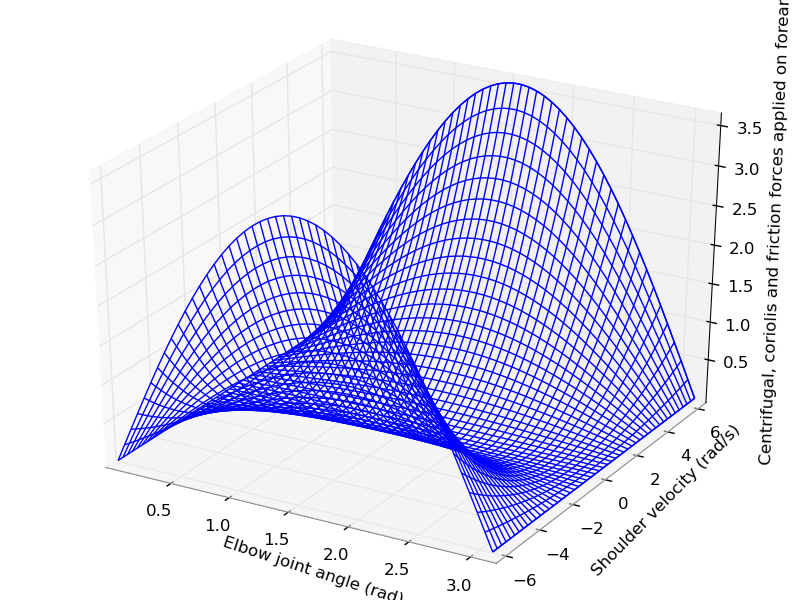
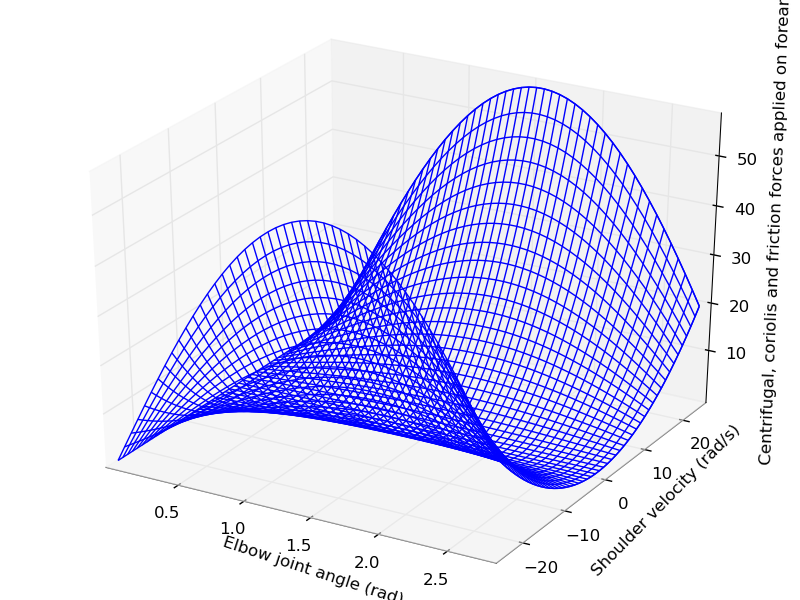
Update documentation.

diff --git a/doc/article.tex b/doc/article.tex
@@ -234,15 +234,16 @@ Kambara~:
     $\ms{A} \in \mathbb{R}^{6 \times 2}$      & = & Matrice des bras de levier $(m)$ \\
     $\vs{T}(\vs{l_m}, \vs{\dot{l_m}}, \vs{\tilde{u}}) \in \mathbb{R}^6$  & = & Tension exercée par les muscles $(N)$ \\
     \\
-    $\vs{k}(\vs{\tilde{u}}) \cdot (\vs{l_r}(\vs{\tilde{u}}) - \vs{l_m})$ & = & Force élastique des muscles (raideur $\cdot$ étirement) \\
+    $\vs{k}(\vs{\tilde{u}}) \cdot (\vs{l_r}(\vs{\tilde{u}}) - \vs{l_m})$ & = & Force élastique des muscles (raideur $\cdot$ étirement) $(N)$ \\
+    $\vs{\nu}(\vs{\tilde{u}}) \cdot \vs{\dot{l_m}}$ & = & Force de viscosité des muscles $(N)$ \\
     \\
 
-    $\vs{k}(\vs{\tilde{u}}) \in \mathbb{R}^6$      & = & Raideur des muscles \\
+    $\vs{k}(\vs{\tilde{u}}) \in \mathbb{R}^6$      & = & Raideur des muscles $(N/m)$ \\
     $\vs{k_0} \in \mathbb{R}^6$               & = & Raideur intrinsèque des muscles $(N/m)$ \\
     $\vs{k_1} \in \mathbb{R}^6$               & = & Coefficient de variation de l'élasticité des muscles $(N/m)$ \\
     \\
 
-    $\vs{\nu}(\vs{\tilde{u}}) \in \mathbb{R}^6$    & = & Viscosité des muscles \\
+    $\vs{\nu}(\vs{\tilde{u}}) \in \mathbb{R}^6$    & = & Viscosité des muscles $(N \cdot s/m)$ \\
     $\vs{\nu_0} \in \mathbb{R}^6$             & = & Viscosité intrinsèque des muscles $(N \cdot s/m)$ \\
     $\vs{\nu_1} \in \mathbb{R}^6$             & = & Coefficient de variation de la viscosité des muscles $(N \cdot s/m)$ \\
     \\
@@ -276,17 +277,17 @@ Mitrovic \cite{katayama1993} (p.356-357)~:
     \hline
                             & $k_0$ & $k_1$  & $\nu_0$ & $\nu_1$ & $l_{r1}$               & $l_{m0} - l_{r0}$ \\
     \hline                                            
-    fléchisseur de l'épaule & 810.8 & 1621.6 & 54.1    & 108.1   & $-3.49 \cdot 10^{-2}$  & $  9.08 \cdot 10^{-2}$ \\
-    \hline
-    extenseur de l'épaule   & 810.8 & 1621.6 & 54.1    & 108.1   & $ 3.49 \cdot 10^{-2}$  & $ -2.79 \cdot 10^{-2}$ \\
-    \hline
-    fléchisseur du coude    & 810.8 & 1621.6 & 54.1    & 108.1   & $-2.18 \cdot 10^{-2}$  & $  5.67 \cdot 10^{-2}$ \\
-    \hline
-    extenseur du coude      & 810.8 & 1621.6 & 54.1    & 108.1   & $ 2.18 \cdot 10^{-2}$  & $  0.44 \cdot 10^{-2}$ \\
-    \hline
-    double fléchisseur      & 810.8 & 1621.6 & 54.1    & 108.1   & $-5.50 \cdot 10^{-2}$  & $ 14.29 \cdot 10^{-2}$ \\
-    \hline
-    double extenseur        & 810.8 & 1621.6 & 54.1    & 108.1   & $ 5.50 \cdot 10^{-2}$  & $ -1.34 \cdot 10^{-2}$ \\
+    fléchisseur de l'épaule & 8.108 & 16.216 & 54.1    & 1.081   & $-3.49 \cdot 10^{-2}$  & $  9.08 \cdot 10^{-2}$ \\
+    \hline                                                 
+    extenseur de l'épaule   & 8.108 & 16.216 & 54.1    & 1.081   & $ 3.49 \cdot 10^{-2}$  & $ -2.79 \cdot 10^{-2}$ \\
+    \hline                                                 
+    fléchisseur du coude    & 8.108 & 16.216 & 54.1    & 1.081   & $-2.18 \cdot 10^{-2}$  & $  5.67 \cdot 10^{-2}$ \\
+    \hline                                                 
+    extenseur du coude      & 8.108 & 16.216 & 54.1    & 1.081   & $ 2.18 \cdot 10^{-2}$  & $  0.44 \cdot 10^{-2}$ \\
+    \hline                                                 
+    double fléchisseur      & 8.108 & 16.216 & 54.1    & 1.081   & $-5.50 \cdot 10^{-2}$  & $ 14.29 \cdot 10^{-2}$ \\
+    \hline                                                 
+    double extenseur        & 8.108 & 16.216 & 54.1    & 1.081   & $ 5.50 \cdot 10^{-2}$  & $ -1.34 \cdot 10^{-2}$ \\
     \hline
 \end{tabular*}
 \end{footnotesize}
@@ -306,17 +307,17 @@ Kambara  \cite{kambara2009} (p.359-360)~:
     \hline
                             & $k_0$  & $k_1$  & $\nu_0$ & $\nu_1$ & $l_{r1}$ & $l_{m0} - l_{r0}$ \\
     \hline
-    fléchisseur de l'épaule & 1000   & 3000   & 50      & 100     & 0.15     & 0.077 \\
-    \hline
-    extenseur de l'épaule   & 1000   & 2000   & 50      & 100     & 0.15     & 0.128 \\
-    \hline
-    fléchisseur du coude    & 600    & 1400   & 50      & 100     & 0.15     & 0.100 \\
-    \hline
-    extenseur du coude      & 600    & 1200   & 50      & 100     & 0.15     & 0.040 \\
-    \hline
-    double fléchisseur      & 300    & 600    & 50      & 100     & 0.15     & 0.020 \\
-    \hline
-    double extenseur        & 300    & 600    & 50      & 100     & 0.15     & 0.019 \\
+    fléchisseur de l'épaule & 10   & 30   & 0.5      & 1     & 0.15     & 0.077 \\
+    \hline                                    
+    extenseur de l'épaule   & 10   & 20   & 0.5      & 1     & 0.15     & 0.128 \\
+    \hline                                    
+    fléchisseur du coude    & 6    & 14   & 0.5      & 1     & 0.15     & 0.100 \\
+    \hline                                    
+    extenseur du coude      & 6    & 12   & 0.5      & 1     & 0.15     & 0.040 \\
+    \hline                                    
+    double fléchisseur      & 3    & 6    & 0.5      & 1     & 0.15     & 0.020 \\
+    \hline                                    
+    double extenseur        & 3    & 6    & 0.5      & 1     & 0.15     & 0.019 \\
     \hline
 \end{tabular*}
 \end{small}
@@ -399,19 +400,19 @@ Kambara  \cite{kambara2009} (p.359-360)~:
 
 \begin{figure}[h]
     \centering
-    \subfigure[$f_a$ : activation-fréquence]{\includegraphics[width=.40\linewidth]{fig/muscle_Weiwei_fa}}~~~
-    \subfigure[$n_f$]{\includegraphics[width=.40\linewidth]{fig/muscle_Weiwei_nf}}~~~
+    \subfigure[$f_a$ : activation-fréquence]{\includegraphics[width=.40\linewidth]{fig/muscle_Li_fa}}~~~
+    \subfigure[$n_f$]{\includegraphics[width=.40\linewidth]{fig/muscle_Li_nf}}~~~
 \end{figure}
 
 \begin{figure}[h]
     \centering
-    \subfigure[$f_l$ : force-longueur]{\includegraphics[width=.40\linewidth]{fig/muscle_Weiwei_fl}}~~~
-    \subfigure[$f_v$ : force-vitesse]{\includegraphics[width=.40\linewidth]{fig/muscle_Weiwei_fv}}~~~
+    \subfigure[$f_l$ : force-longueur]{\includegraphics[width=.40\linewidth]{fig/muscle_Li_fl}}~~~
+    \subfigure[$f_v$ : force-vitesse]{\includegraphics[width=.40\linewidth]{fig/muscle_Li_fv}}~~~
 \end{figure}
 
 \begin{figure}[h]
     \centering
-    \subfigure[$f_l$ : force élastique]{\includegraphics[width=.40\linewidth]{fig/muscle_Weiwei_fe}}
+    \subfigure[$f_l$ : force élastique]{\includegraphics[width=.40\linewidth]{fig/muscle_Li_fe}}
 \end{figure}
 
 %%%%%%%%%%%%%%%%%%%%%%%%%%%%%%%%%%%%%%%%%%%%%%%%%%%%%%%%%%%%%%%%%%%%%%%%%%%%%%%%
